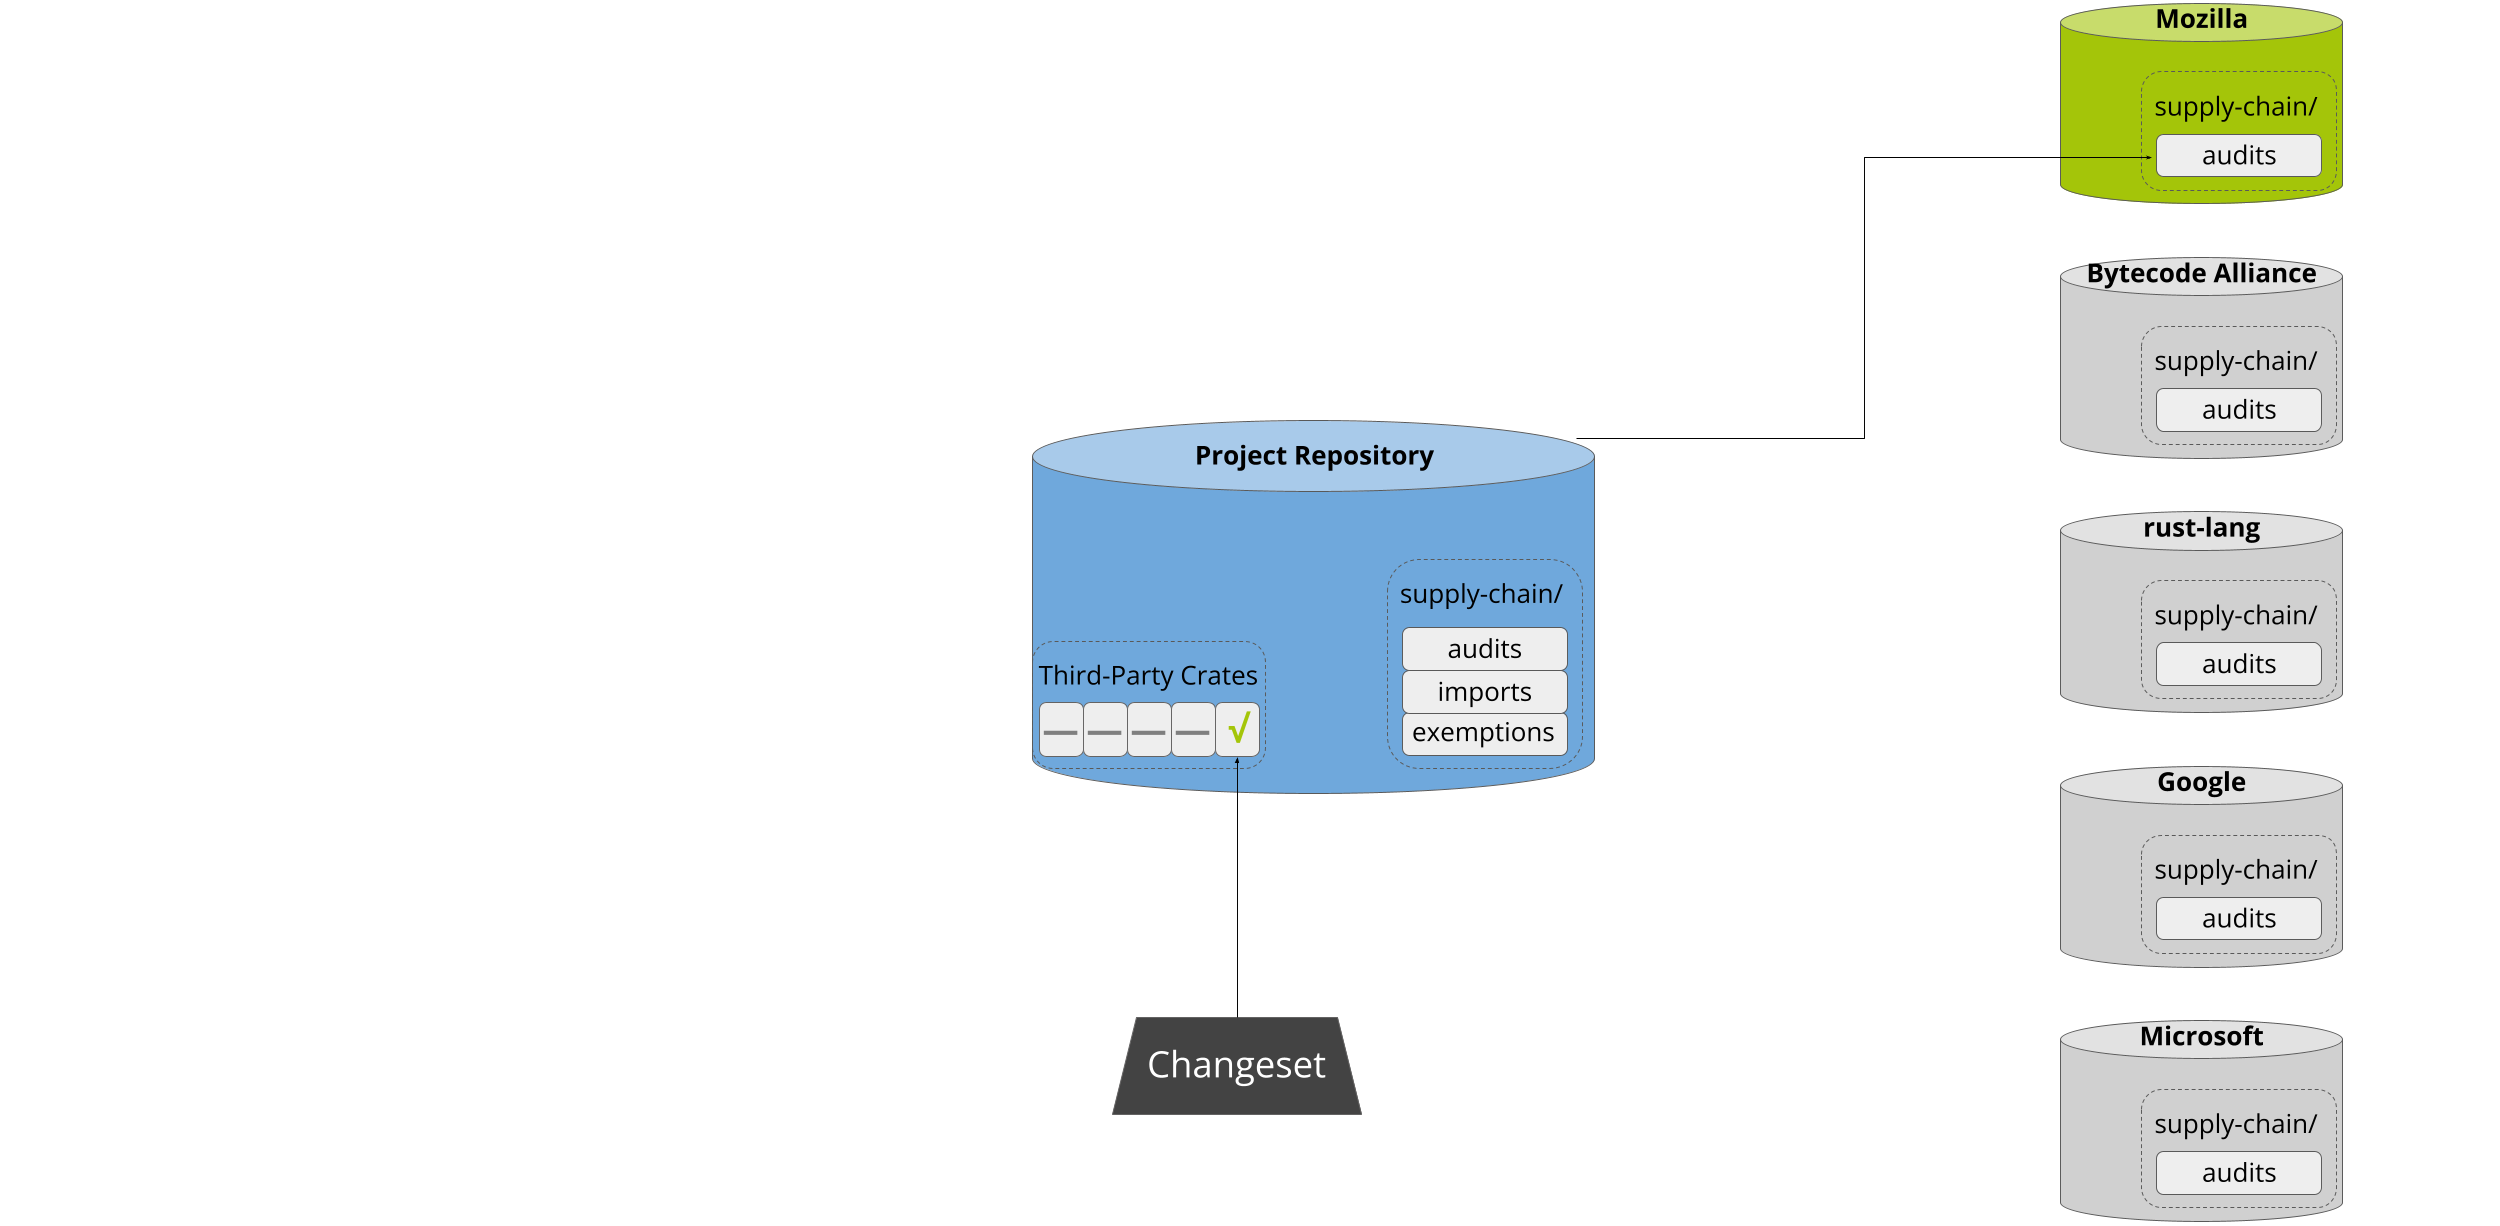
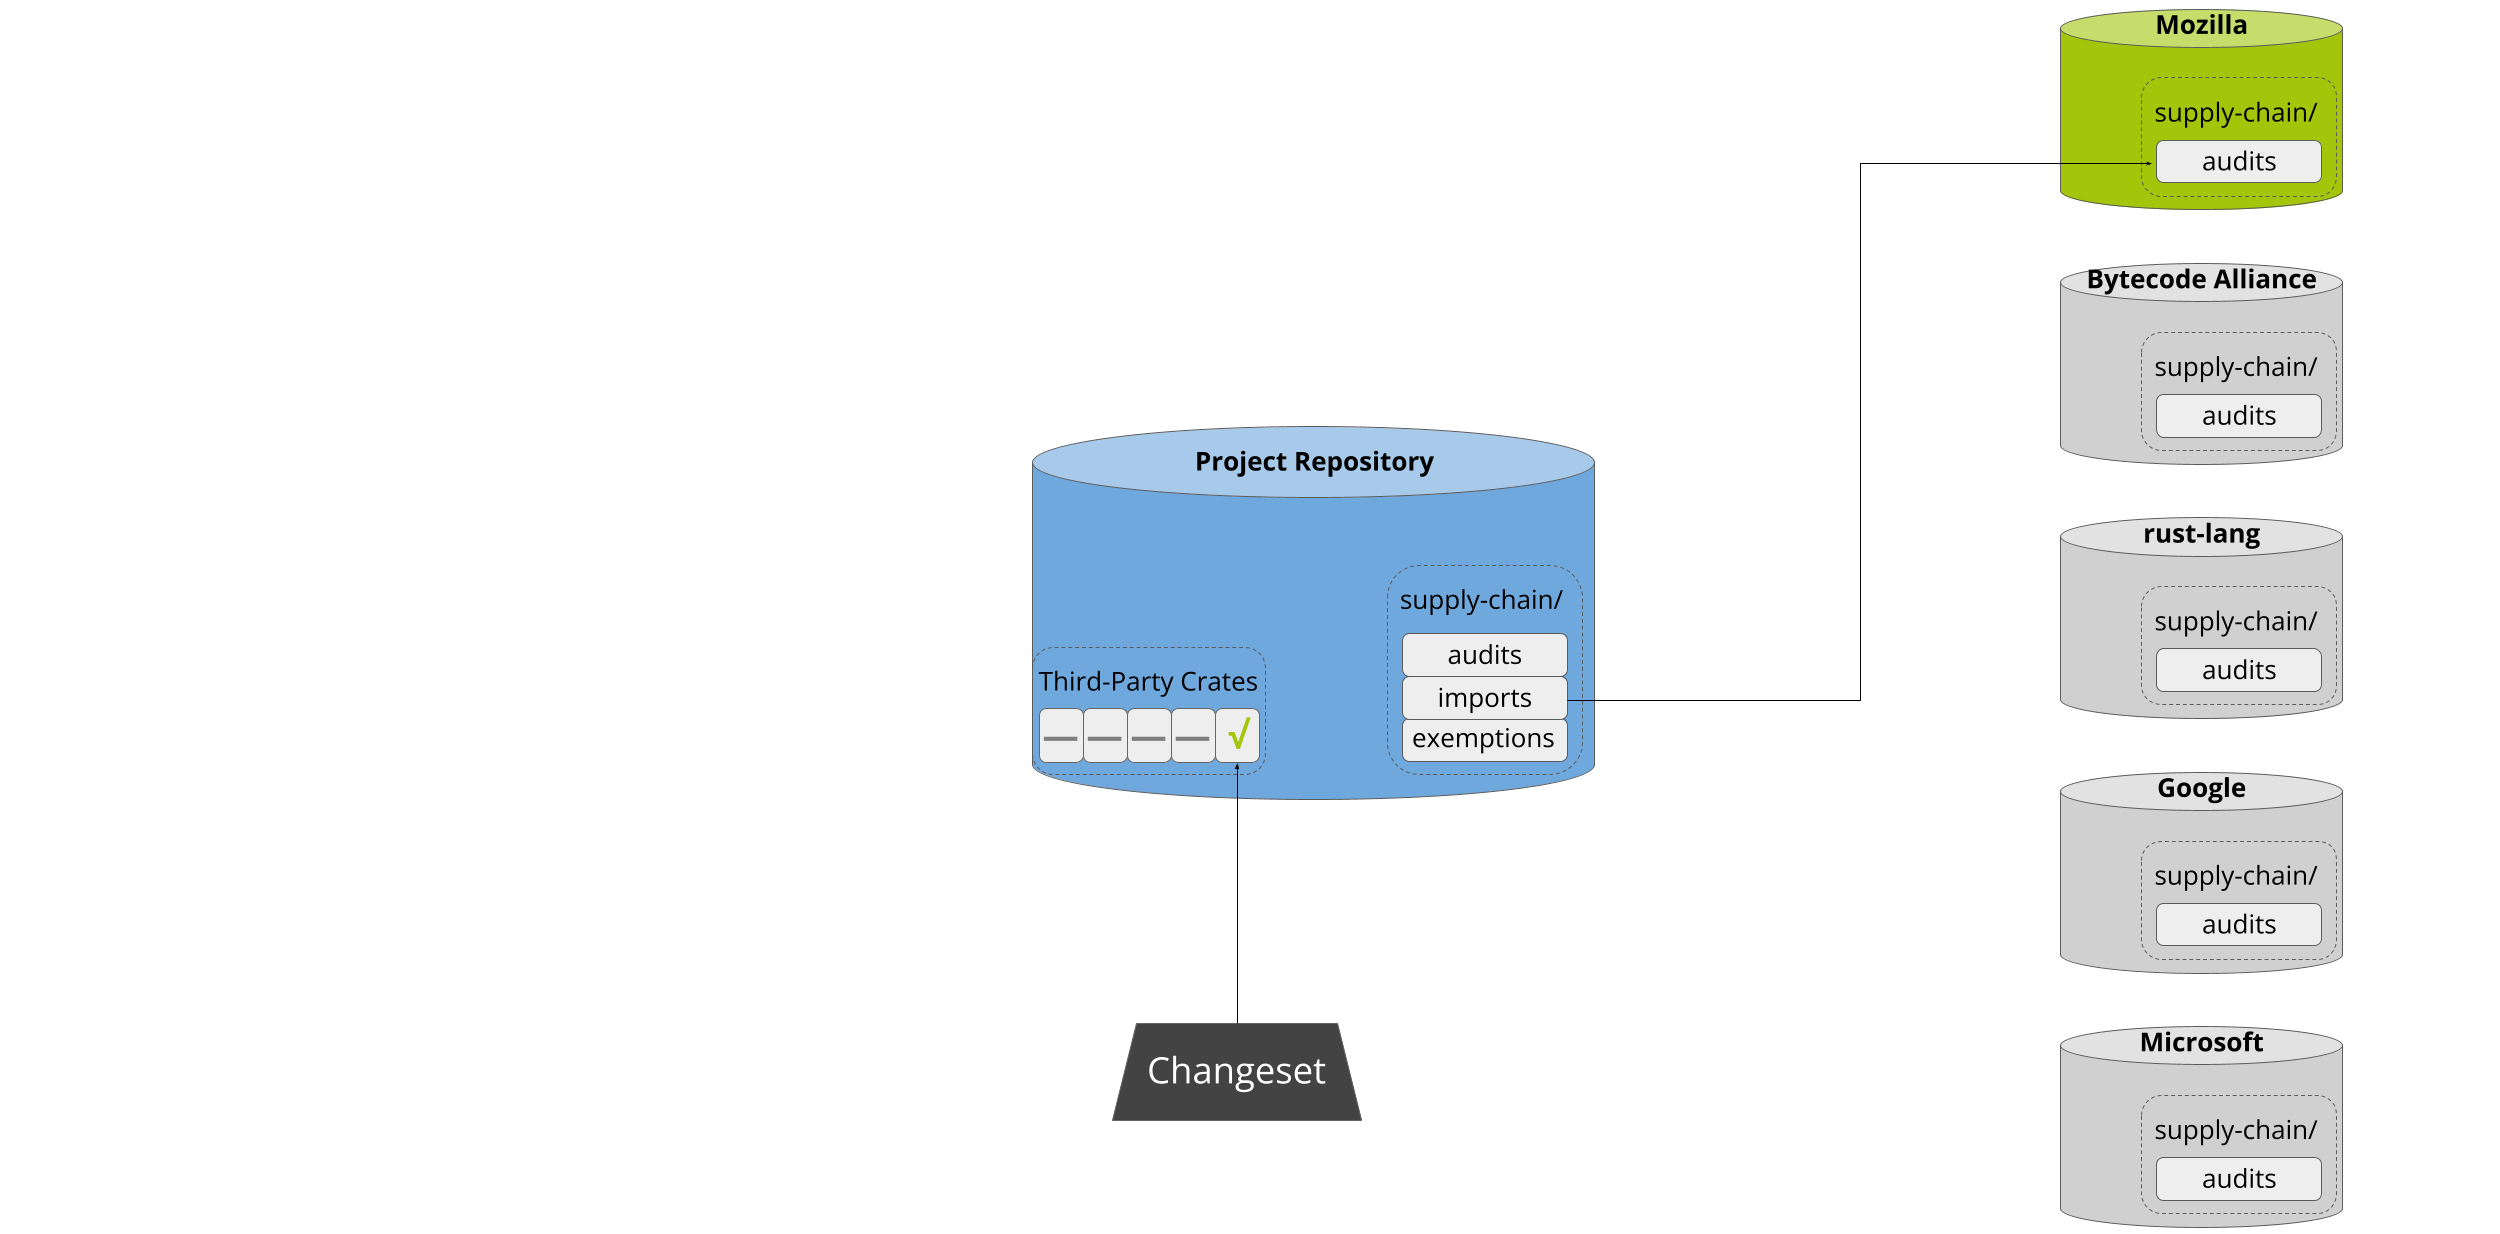
Refine how-it-works a bit more.

diff --git a/book/src/how-it-works.md b/book/src/how-it-works.md
@@ -2,35 +2,37 @@
 
 Most developers are busy people with limited energy to devote to supply-chain
 integrity. Therefore, the driving principle behind cargo-vet is to minimize
-friction and make it as easy as possible to do the right thing. Consequently it
-aims to be trivial to set up, fit unobtrusively into existing workflows, guide
-people through each step, and allow the entire ecosystem to share the work of
-auditing widely-used packages.
+friction and make it as easy as possible to do the right thing. It aims to be
+trivial to set up, fit unobtrusively into existing workflows, guide people
+through each step, and allow the entire ecosystem to share the work of auditing
+widely-used packages.
 
 This section provides a high-level overview of how the system operates to
 achieve these goals.
 
 ## Setup
 
+<!-- diagrams: https://docs.google.com/presentation/d/18svkEsm9K5gLQeJLfILGdMUTsujiDgzecrswcOAdceQ/edit -->
+
 Cargo-vet is easy to set up. Most users will already have a repository with some
 pre-existing third-party dependencies:
 
 ![Existing Repository](images/existing_repo.png)
 
-Enabling cargo-vet simply involves adding the tool as a linter, and creating
-some metadata in the repository:
+Cargo-vet can enabled by adding the tool as a linter and running `cargo vet
+init`, which creates some metadata in the repository:
 
 ![Repository with Metadata](images/with_metadata.png)
 
-This takes about five minutes, and crucially, does not require you to audit the
+This takes about five minutes, and crucially, does not require auditing the
 existing dependencies. These are automatically added to the exemptions list:
 
 ![Exemptions](images/exemptions.png)
 
-This makes it very low-effort to get started, and allows people to tackle the
-backlog incrementally from an approved state.
+This makes it low-effort to get started, and facilitates tackling the backlog
+incrementally from an approved state.
 
-## Workflow
+## Adding New Third-Party Code
 
 Sometime later, a developer attempts to pull new third-party code into the
 project. This might be a new dependency, or an update to an existing one:
@@ -43,9 +45,9 @@ patch is refused:
 
 ![Refusal](images/refusal.png)
 
-Next, cargo-vet helps the developer figure out how to resolve the situation. The
-first thing it does is to scan the registry to see if any well-known
-organization has audited that package before:
+Next, cargo-vet assists the developer in resolving the situation.  First, it
+scans the registry to see if any well-known organizations have audited that
+package before:
 
 ![Potential Imports](images/potential_imports.png)
 
@@ -55,39 +57,58 @@ that organization to the project’s trusted imports:
 ![Import](images/import.png)
 
 This enables projects to lazily build up an increasingly wide set of approved
-crates.
+crates. Approval of both import and audit submissions automatically falls to the
+code owners of the `supply-chain/` directory, which should consist of either
+project leadership or a dedicated security team.
 
-It may be the case that the developer needs to perform the audit themselves, and
-cargo-vet streamlines this process. Often someone will have already audited a
-different version of the same crate, in which case cargo-vet computes the
-relevant diffs and identifies the smallest one. After walking the developer
-through the process of determining what to audit, it then presents the relevant
-artifacts for inspection, either locally or on
+## Auditing Workflow
+
+It may of course be the case that the developer needs to perform the audit
+themselves, and cargo-vet streamlines this process. Often someone will have
+already audited a different version of the same crate, in which case cargo-vet
+computes the relevant diffs and identifies the smallest one[^1]. After walking
+the developer through the process of determining what to audit, it then presents
+the relevant artifacts for inspection, either locally or on
 [Sourcegraph](https://sourcegraph.com).
 
 Cargo-vet minimizes developer friction by storing audits in-tree. This means
-that developers don’t have to navigate or authenticate with an external system.
-They already have a changeset adding the new third-party code, and can just
+that developers don’t need to navigate or authenticate with an external system.
+Interactions with cargo-vet are generally triggered when a developer creates a
+changeset adding new third-party code, and this design allows them to simply
 submit the relevant audits as part of that changeset:
 
 ![Audit Submission](images/audit_submission.png)
 
+## Sharing the Work
+
 Cargo-vet’s mechanisms for sharing and discovery are built on top of this
 decentralized storage. Imports are implementing by pointing directly to the
-audit files in the repositories of other organizations, and the registry is
-simply an index audit files from well-known organizations:
+audit files in external repositories, and the registry is merely an index of
+such files from well-known organizations:
 
 ![Registry](images/registry.png)
 
-This also means there’s no central infrastructure for an attacker to compromise:
-imports used to vet the dependency graph are always fetched directly from the
-relevant organization, and only after that organization has been explicitly
-added to the trusted set.
+This also means there’s no central infrastructure for an attacker to compromise.
+Imports used to vet the dependency graph are always fetched directly from the
+relevant organization, and only after explicitly adding that organization to the
+trusted set.
+
+Audit sharing is a key force-multiplier behind `cargo vet`, but it is not
+essential. Projects can of course decline to add any imports and perform all
+audits themselves.
+
+## Additional Features
 
 Cargo-vet has a number of advanced features under the hood — it supports custom
 audit criteria, configurable policies for different subtrees in the build graph,
 and filtering out platform-specific code. These features are all completely
 optional, and the baseline experience is designed to be simple and require
-minimal onboarding.
+minimal onboarding. You can learn more about them in the subsequent chapters of
+this book.
 
-<!-- diagrams: https://docs.google.com/presentation/d/18svkEsm9K5gLQeJLfILGdMUTsujiDgzecrswcOAdceQ/edit -->
+## Footnotes
+
+[^1]: Differential audits work even for crates in the exemptions list. While it
+  might seem counter-intuitive to perform a relative security audit against an
+  unknown base, doing so still provides meaningful protection against future
+  supply-chain attacks.

diff --git a/book/src/motivation.md b/book/src/motivation.md
@@ -1,6 +1,6 @@
 # Motivation
 
-The discussion below covers the high-level motivation behind this approach. If
+The discussion below covers the high-level motivation for building this system. If
 you're just interested in how it works, you can skip to the next section.
 
 ### Security Risks of Third-Party Code
@@ -23,10 +23,10 @@ However, that is often not a realistic solution for many projects today. In the 
 of technical guarantees, the responsibility for ensuring software integrity falls to
 humans. But reviewing every line of third-party code can be very time-consuming and
 difficult, and undermines the original premise of low-friction code reuse. Practically
-speaking, it usually just doesn't happen — even at large well-resourced companies.
+speaking, it often just doesn't happen — even at large well-resourced companies.
 
 ### Tackling This in Rust
-There are two properties of Rust that make this problem more tractable.
+There are two properties of Rust that make this problem easier to solve.
 
 First, it's relatively easy to audit Rust code. Unlike C/C++, Rust code is
 memory-safe by default, and unlike JavaScript, there is no highly-dynamic shared
@@ -55,34 +55,6 @@ merely auditing the diff between the two. Not every organization
 and project share the same level of risk tolerance, but there is a lot of common
 ground, and substantial room for improvement beyond no sharing at all.
 
-### Design
-
-The core idea behind `cargo vet` is that teams perform these relatively-cheap
-audits, document them in a structured way, and make that information available to
-others. The more people that participate, the more likely each developer is to find
-that a new import has already been audited, and the less total work there is for
-everyone.
-
-To remain lightweight, `cargo vet` does not introduce its own mechanisms for identity,
-integrity, and history. Audits and trusted parties are recorded in a flat file in the project repository,
-and are thus subject to the same access controls and record-keeping as the rest of the
-project. No extra work is required to make an open-source projects audits available to
-others, since others can simply reference the file directly from the public repository.
-Closed-source projects, by contrast, will need to push a copy of their audit file to
-a known public location if they wish to make it available to others.
-
-The means of discovering other participants is expected to change over time as adoption grows. Early on,
-parties can simply coordinate directly, and look to each other's lists of trusted sources
-for inspiration. As the numbers grow, it may be helpful to develop a centralized directory.
-Eventually, it may make sense to integrate this information directly with crates.io.
-
-Audit sharing is a key force-multiplier behind `cargo vet`, but it is not essential.
-You can of course decline to import any external audit sets, and either perform all the
-audits yourself or add them to your allow-list and only audit updates. This second
-approach can be a useful low-effort way to protect a mature projects from future
-supply-chain attacks. By simply enforcing that any future imports are differentially
-audited, you can reliably prevent future attacks while deferring verification against past
-compromise (which may be a larger undertaking).
 
 ## Footnotes
 

diff --git a/book/src/index.md b/book/src/index.md
@@ -1,13 +1,13 @@
 # Cargo Vet
 
 The `cargo vet` subcommand is a tool to help projects ensure that third-party
-Rust dependencies have been audited by a trusted source. It strives to be
+Rust dependencies have been audited by a trusted entity. It strives to be
 lightweight and easy to integrate.
 
 When run, `cargo vet` matches all of a project's third-party dependencies
-against a set of audits performed by the project authors or parties they trust. If
-there are any gaps, the tool provides mechanical assistance in performing
-and documenting the audit.
+against a set of audits performed by the project authors or entities they trust.
+If there are any gaps, the tool provides mechanical assistance in performing and
+documenting the audit.
 
 The primary reason that people do not ordinarily audit open-source dependencies
 is that it is too much work. There are a few key ways that `cargo vet` aims to
@@ -21,8 +21,9 @@ to each other. Developers can inspect the difference between two versions, and r
 that if the first version was vetted, the second can be considered vetted as well.
 
 * **Deferred Audits**: It is not always practical to achieve full coverage.
-Dependencies can be added to a list of exceptions which can be ratcheted down over time. This makes it trivial to introduce `cargo vet` to a new project
-and guard against future vulnerabilities while vetting the pre-existing code
+Dependencies can be added to a list of exceptions which can be ratcheted down
+over time. This makes it trivial to introduce `cargo vet` to a new project and
+guard against future vulnerabilities while vetting the pre-existing code
 gradually as time permits.
 
 > **Note**: `cargo vet` is under active development. If you're interested in
